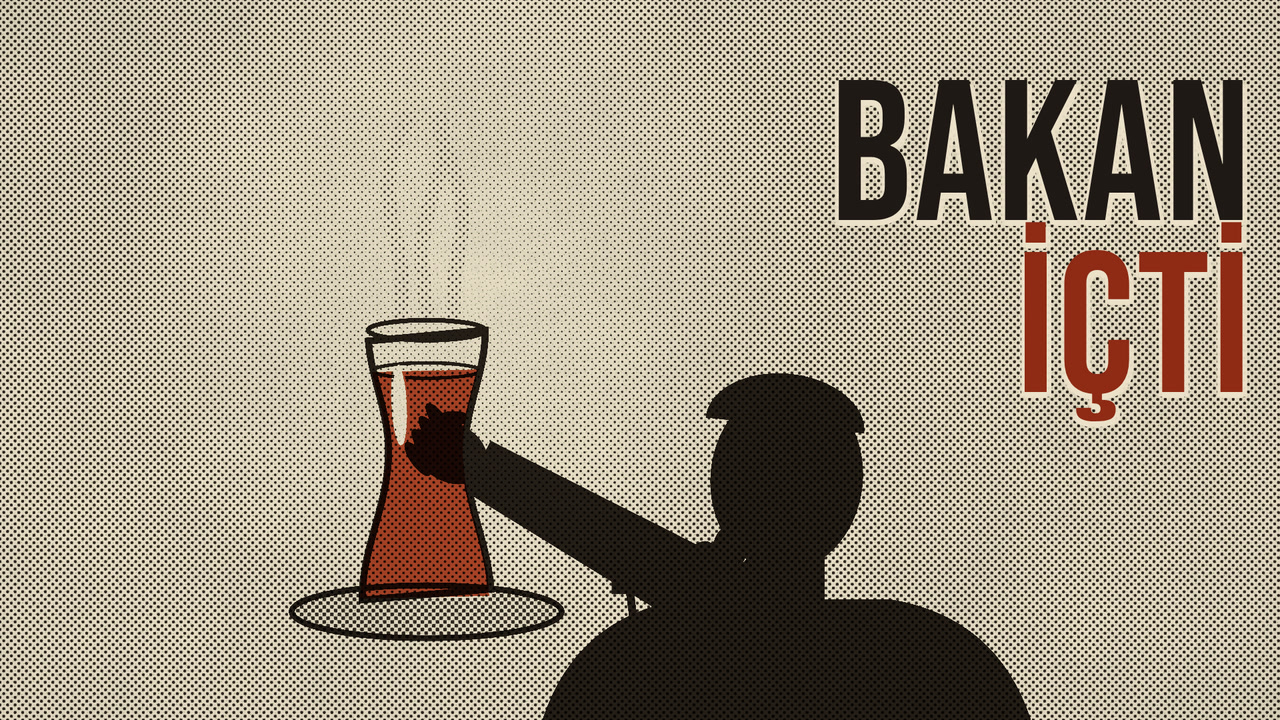
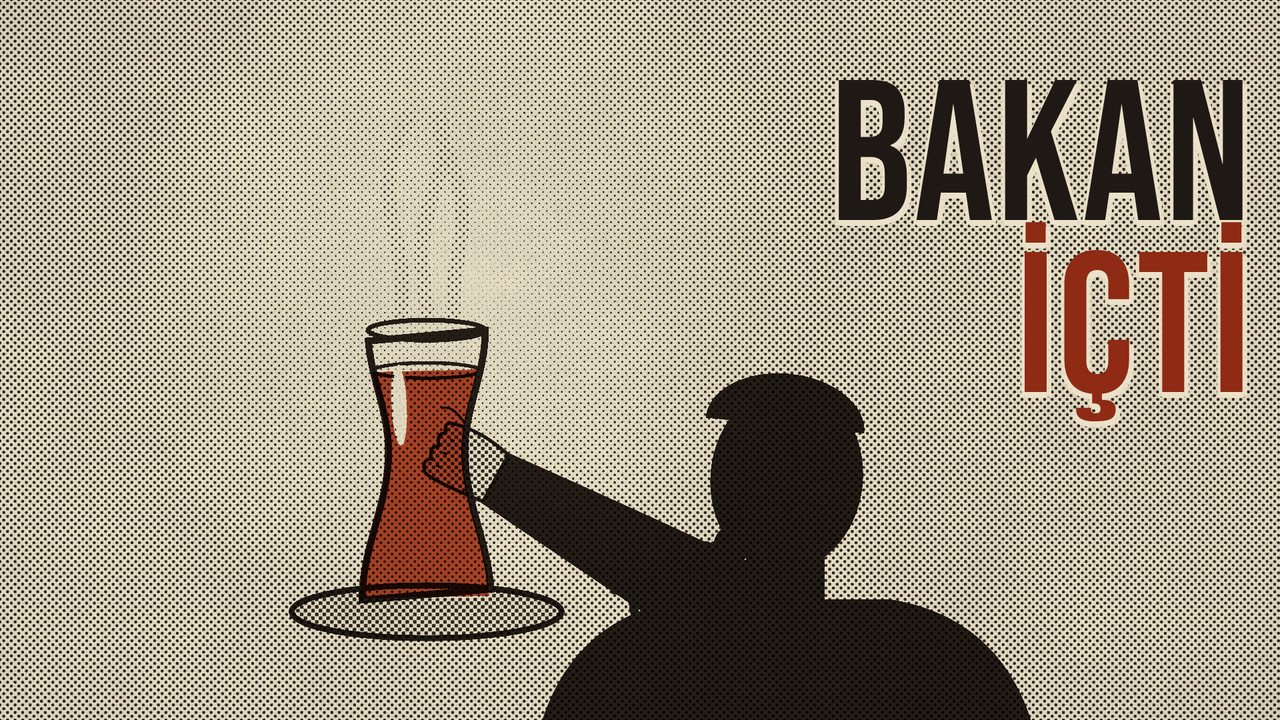
Çernobil'in çayı: donma düzeltmeleri (P59, P84, P85), kapaklar yenilendi, deney kaydı ve geriye bakış
Claude-Session: https://claude.ai/code/session_01DiDBPCwUFhvk5CXWGjkJZy

diff --git a/cernobil/lib/sahne/d.js b/cernobil/lib/sahne/d.js
@@ -73,14 +73,21 @@ sahne('P83', 'G08', 'bugun', 'orta', (B, st) => {
 sahne('P84', 'G09', 'bugun', 'yakin', (B, st) => {
   B.cam(980, 560, 1.06 + st.lt * .008);
   SET.zemin(B, .2, 2000);
-  const kalk = E.io3(clamp(st.lt / 3)), y = 900 - kalk * 90;
-  D.bardak(B, 880, y, 3.2, { buhar: st.t });
-  SET.el(B, 940, y - 140, 1.25, .5, { kav: .9 });
+  // bardak kalkar ("içebilir"), iner ("söylemez"); sonra üç soru sırayla dizgiyle basılır
+  const kalk = ramp(st.t, st.at + .3, A('G09@içebilir'), E.io3) * (1 - ramp(st.t, A('G09@söylemez') - .3, A('G09@söylemez') + .6, E.io3)), y = 900 - kalk * 110;
+  D.bardak(B, 700, y, 3.2, { buhar: st.t });
+  SET.el(B, 760, y - 140, 1.25, .5, { kav: .9 });
+  const S3 = [['Sayıyı kim ölçtü?', 'G09@sayıyı'], ['Sana söyledi mi?', 'G09@sana'], ['Geri kalan çaya ne yaptı?', 'G09@geri']];
+  S3.forEach(([s, at], i) => D.sayi(B, s, 1120, 360 + i * 150, { px: 54, align: 'left', p: ramp(st.t, A(at) - .2, A(at) + .9) }));
 });
 // P85 izleyicinin bardağı: dem yüzeyi yukarıdan; bitiş ekranı (son 20 sn)
 sahne('P85', 'G10', 'bugun', 'ayrinti', (B, st) => {
-  B.cam(960, 520, 1 + Math.min(st.lt, 8) * .008);
+  B.cam(960, 520, 1 + Math.min(st.lt, 10) * .008);
   SET.zemin(B, .1, 640, .22);
-  D.bardak(B, 960, 760, 3.6, { buhar: st.t, kasik: true });
-  const l = B.l, p = ramp(st.t, Se('G10') + .5, Se('G10') + 1.5); if (p > 0) { l.save(); l.globalAlpha = p; l.fillStyle = '#000'; l.font = FONT.manset(60); l.textAlign = 'center'; l.fillText('ZAMAN KURYESİ', 960, 160); l.restore(); }
+  D.bardak(B, 820, 760, 3.6, { buhar: st.t, kasik: false });
+  // kaşık demde döner (sürekli küçük hareket)
+  const a = st.t * 2.2, l = B.l; l.save(); l.strokeStyle = '#000'; l.lineWidth = 9; l.lineCap = 'round'; l.beginPath(); l.moveTo(820 + Math.cos(a) * 30, 520); l.lineTo(820 + Math.cos(a) * 60, 360); l.stroke(); l.restore();
+  D.sayi(B, '39 Bq/kg', 1380, 560, { px: 90, p: ramp(st.t, A('G10@sayıyı') - .2, A('G10@sayıyı') + .8) });
+  D.sayi(B, 'kim ölçtü? · nerede yazıyor?', 1380, 660, { px: 34, p: ramp(st.t, A('G10@sor') - .2, A('G10@sor') + .9) });
+  const p = ramp(st.t, Se('G10') + .5, Se('G10') + 1.5); if (p > 0) { l.save(); l.globalAlpha = p; l.fillStyle = '#000'; l.font = FONT.manset(60); l.textAlign = 'center'; l.fillText('ZAMAN KURYESİ', 960, 160); l.restore(); }
 });

diff --git a/cernobil/lib/sahne/c.js b/cernobil/lib/sahne/c.js
@@ -66,11 +66,13 @@ sahne('P58', 'F07', 'koy', 'orta', (B, st) => {
 // ── V. DEPO ──
 // P59 vadi (1988): boş bir dere yatağı, sis
 sahne('P59', 'E01', 'vadi', 'genis', (B, st) => {
-  B.cam(960 - st.lt * 10, 540, 1.04);
+  B.cam(960 - st.lt * 14, 540, 1.04 + st.lt * .004);
+  D.bulutlar(B, st.t, { y: 150, d: .3, hiz: 60 });
   D.daglar(B, { y: 300, kat: [[.25, 0], [.4, 160], [.55, 330]] });
   const l = B.l; l.save(); l.strokeStyle = '#000'; l.lineWidth = 3; l.beginPath(); for (let y = 1100; y > 600; y -= 20) l.lineTo(960 + Math.sin(y / 70) * 60 * (y - 500) / 600, y); l.stroke(); l.restore();
+  // vadiye inen yolda bir kamyon (çay yüklü), yavaşça ilerler
+  const u = clamp(st.lt / 9), x = lerp(1700, 1150, u), y = lerp(760, 900, u); l.save(); l.fillStyle = '#000'; l.fillRect(x, y - 70, 170, 70); l.fillRect(x - 60, y - 50, 60, 50); l.beginPath(); l.arc(x + 30, y + 4, 18, 0, TAU); l.arc(x + 140, y + 4, 18, 0, TAU); l.fill(); l.restore();
   D.tarihBandi(B, '1988', 110, clamp(st.lt / .5));
-  D.yigin(B, 960, 980, .6, { kat: 3, gen: 5 });
 }, { tr: { type: 'merdane', dur: .9 } });
 // P60 başlık: valilerin çay savaşı
 sahne('P60', 'E02', 'kupur', 'ayrinti', (B, st) => {
@@ -203,7 +205,7 @@ sahne('P73', 'E14', 'hesap', 'kart', (B, st) => {
   B.cam(960, 540, 1 + st.lt * .006);
   SET.zemin(B, .05, 2000);
   D.sayi(B, '58.070 TON', 960, 330, { px: 120, p: ramp(st.t, A('E14@elli') - .2, A('E14@elli') + .8) });
-  SET.cubuklar(B, 560, 820, 800, 300, [['İMHA', .61, .7], ['DEPODA', .39, .4]], ramp(st.t, A('E14@otuz') - .3, A('E14@yirmi') + .6));
+  SET.cubuklar(B, 560, 720, 800, 260, [['İMHA', .61, .7], ['DEPODA', .39, .4]], ramp(st.t, A('E14@otuz') - .3, A('E14@yirmi') + .6));
   D.tarihBandi(B, 'HAZİRAN 1990', 110, clamp(st.lt / .5));
 }, { over: KU3('Milliyet, 11 Haziran 1990, s. 15 (35.456 + 22.614)') });
 // P74 İç Anadolu'da satın alınmış arazi: kazık ve şerit, "izin yok"

diff --git a/cernobil/geriye_bakis.md b/cernobil/geriye_bakis.md
@@ -37,6 +37,15 @@ Bu video yön usulünün üçüncü örneği (`analiz/2026-11-23-deney-yon-promp
   - **Ders (Lale, Gılgamış, Frankenstein'la aynı):** ilk düzeltme yeni sorun doğurdu (çanta ölçeği yanlış, dev kara bloklar; sızıntı şeritleri direk). Her düzeltilen plan tam boy karede yeniden bakıldı.
 - **Arşivle çalışmak:** OCR metni sütunları birbirine karıştırıyor (bir haberin devamı başka sütunun ortasında); alıntıyı kısa bir arama penceresiyle çıkaran araç (`ARSIV.md` üreticisi) cümleleri kesiyordu, Fable bu yüzden var olan sözleri "yok" saydı. Tam metinle yeniden sınandı; ARSIV.md'ye eklendi. Ders: alıntı özetini okuyana tam metnin yerini de ver.
 
+## Render ve denetimler
+- **Alt bant** (`tools/alt_bant.js`): iki ihlal (haritada "RİZE", son karede kanal adı) düzeltildi; sonra temiz.
+- **Ölçek kuralı** (`tools/plan_listesi.js`): ilk yazımda dört ardışık aynı ölçek; düzeltildi, 85 plan.
+- **Donma taraması** (`tools/donma.py`): ilk render'da 5 sn'yi aşan üç aralık: P59 vadi (6,2 sn), P84 izleyicinin bardağı (12 sn), P85 son cümle (13,6 sn). Sözcüğe bağlı eylem eklendi: vadiye inen kamyon; bardağın kalkıp inmesi ve üç sorunun ("Sayıyı kim ölçtü?" …) sırayla basılması; dönen kaşık ve "39 Bq/kg". Yalnız dört parça yeniden üretildi (ONLY=). Son render'da 5 sn'yi aşan tek aralık bitiş ekranı (son 21 sn).
+- **Ses:** −14,2 LUFS, tepe −1,5 dBFS. Müzik 703 saniyenin ~690'ında −60 dB üstü; sessiz saniyeler bilerek (C10 sözü).
+- **Render süresi:** 21.088 kare, 4 işçi, kare başına 0,5 sn: 44 dk. Hareket bulanıklığı yok (tramı ezer).
+- **Dosya boyu:** tram dokusu yüzünden CRF 18 render 897 MB (Frankenstein 301 MB). Teslim kopyaları sabit bit hızıyla: YouTube için iki geçişli H.264 3,7 Mbps, telefon için H.265 1 Mbps. Ders: tram ya da gravür gibi ince doku varsa render'ın kendisi ara dosyadır; teslim boyu bit hızıyla seçilir.
+- **Bırakılan denetim:** Fable'ın izleyici gözüyle son okuması (Frankenstein'da üç kişiyle yapılmıştı) bu videoda yapılmadı; ilk render'dan sonra istenirse yapılabilir.
+
 ## Açık kalanlar
 - Dört gazete sayfasının görüntüyle doğrulanması kullanıcıda (`yayin.md`).
 - Kulakla son onay kullanıcıda.

diff --git a/analiz/2026-11-23-deney-yon-promptu.md b/analiz/2026-11-23-deney-yon-promptu.md
@@ -49,3 +49,9 @@
 - **Alt ajanlar:** Fable'ın seslendirme öncesi senaryo okuması (6 engelleyici) ve ayrı bir okuyucunun yazısız kare okuması (9 engelleyici). İkisi de denetim; yön vermedi.
 - **Başkanın seçtikleri ve yönün yetmediği yerler:** `frankenstein/geriye_bakis.md`.
 - **Ölçüler** (Lale ve Gılgamış tablosuyla aynı): kullanıcının üretim sırasındaki düzeltmesi 0 (geriye bakış yazılırken); atlanan kanal kuralı: yok bulundu (kullanıcının fikrini sorma adımı yön metniyle karşılandı, Gılgamış'taki gibi); 48. saat ve 7. gün `analiz/tahminler.md` F1–F3.
+
+## Ek: Çernobil'in çayı, üçüncü yön videosu (24 Kasım 2026)
+- **Yön:** kullanıcının yazdığı yön (bu oturumun ilk mesajı; malzeme `analiz/2026-11-24-cernobil-yon-notlari.md`). Tek yön, sonradan yön yok.
+- **Alt ajanlar:** hakemli kaynak araştırması (sağlık, çökelme takvimi, TAEK yeterlilik testi); Fable'ın seslendirme öncesi senaryo okuması (bardağın tarihi, gerekçe hükmü, iki çayın birleştirilmesi); ayrı bir okuyucunun yazısız kare okuması (darağacı, kamp, mezar taşı, hedef tahtası). Üçü de denetim; yön vermedi.
+- **Başkanın seçtikleri ve yönün yetmediği yerler:** `cernobil/geriye_bakis.md`.
+- **Ölçüler:** kullanıcının üretim sırasındaki düzeltmesi 0 (tek etkileşim: seslendirme kredisi onayı); atlanan kanal kuralı: yok bulundu (fikir sorma adımı yön metniyle karşılandı); 48. saat ve 7. gün `analiz/tahminler.md` Ç1-Ç3.

diff --git a/CLAUDE.md b/CLAUDE.md
@@ -241,6 +241,7 @@ Ayrıntı ve kompozisyon menüsü: `kanal/KAPAK_DERSLERI.md`.
 ## Depo dizini
 | Yer | Ne |
 |---|---|
+| `cernobil/` | Çernobil'in çayı, 1986 (gazete baskısı motoru `lib/baski.js`: tram + tek renk; Milliyet arşivi aracı `tools/arsiv.py`; yön usulünün üçüncü videosu) |
 | `lale-cilginligi/` | Lale Çılgınlığı (gravür + yalnız laleler el boyaması; Türkçe boşluk ölçütüyle seçilen ilk video; Fable'ın izleyici okuması; en yeni `film.js`) |
 | `dorian-gray/` | *Dorian Gray'in Portresi* (karma üslup: gravür + yalnız portre yağlıboya; en yeni tam hat: film, müzik, kapak, render) |
 | `narkissos/` | Narkissos → narsisizm (vazo; cümle düzeyinde hizalama; **ilk dikey Shorts hattı**) |
